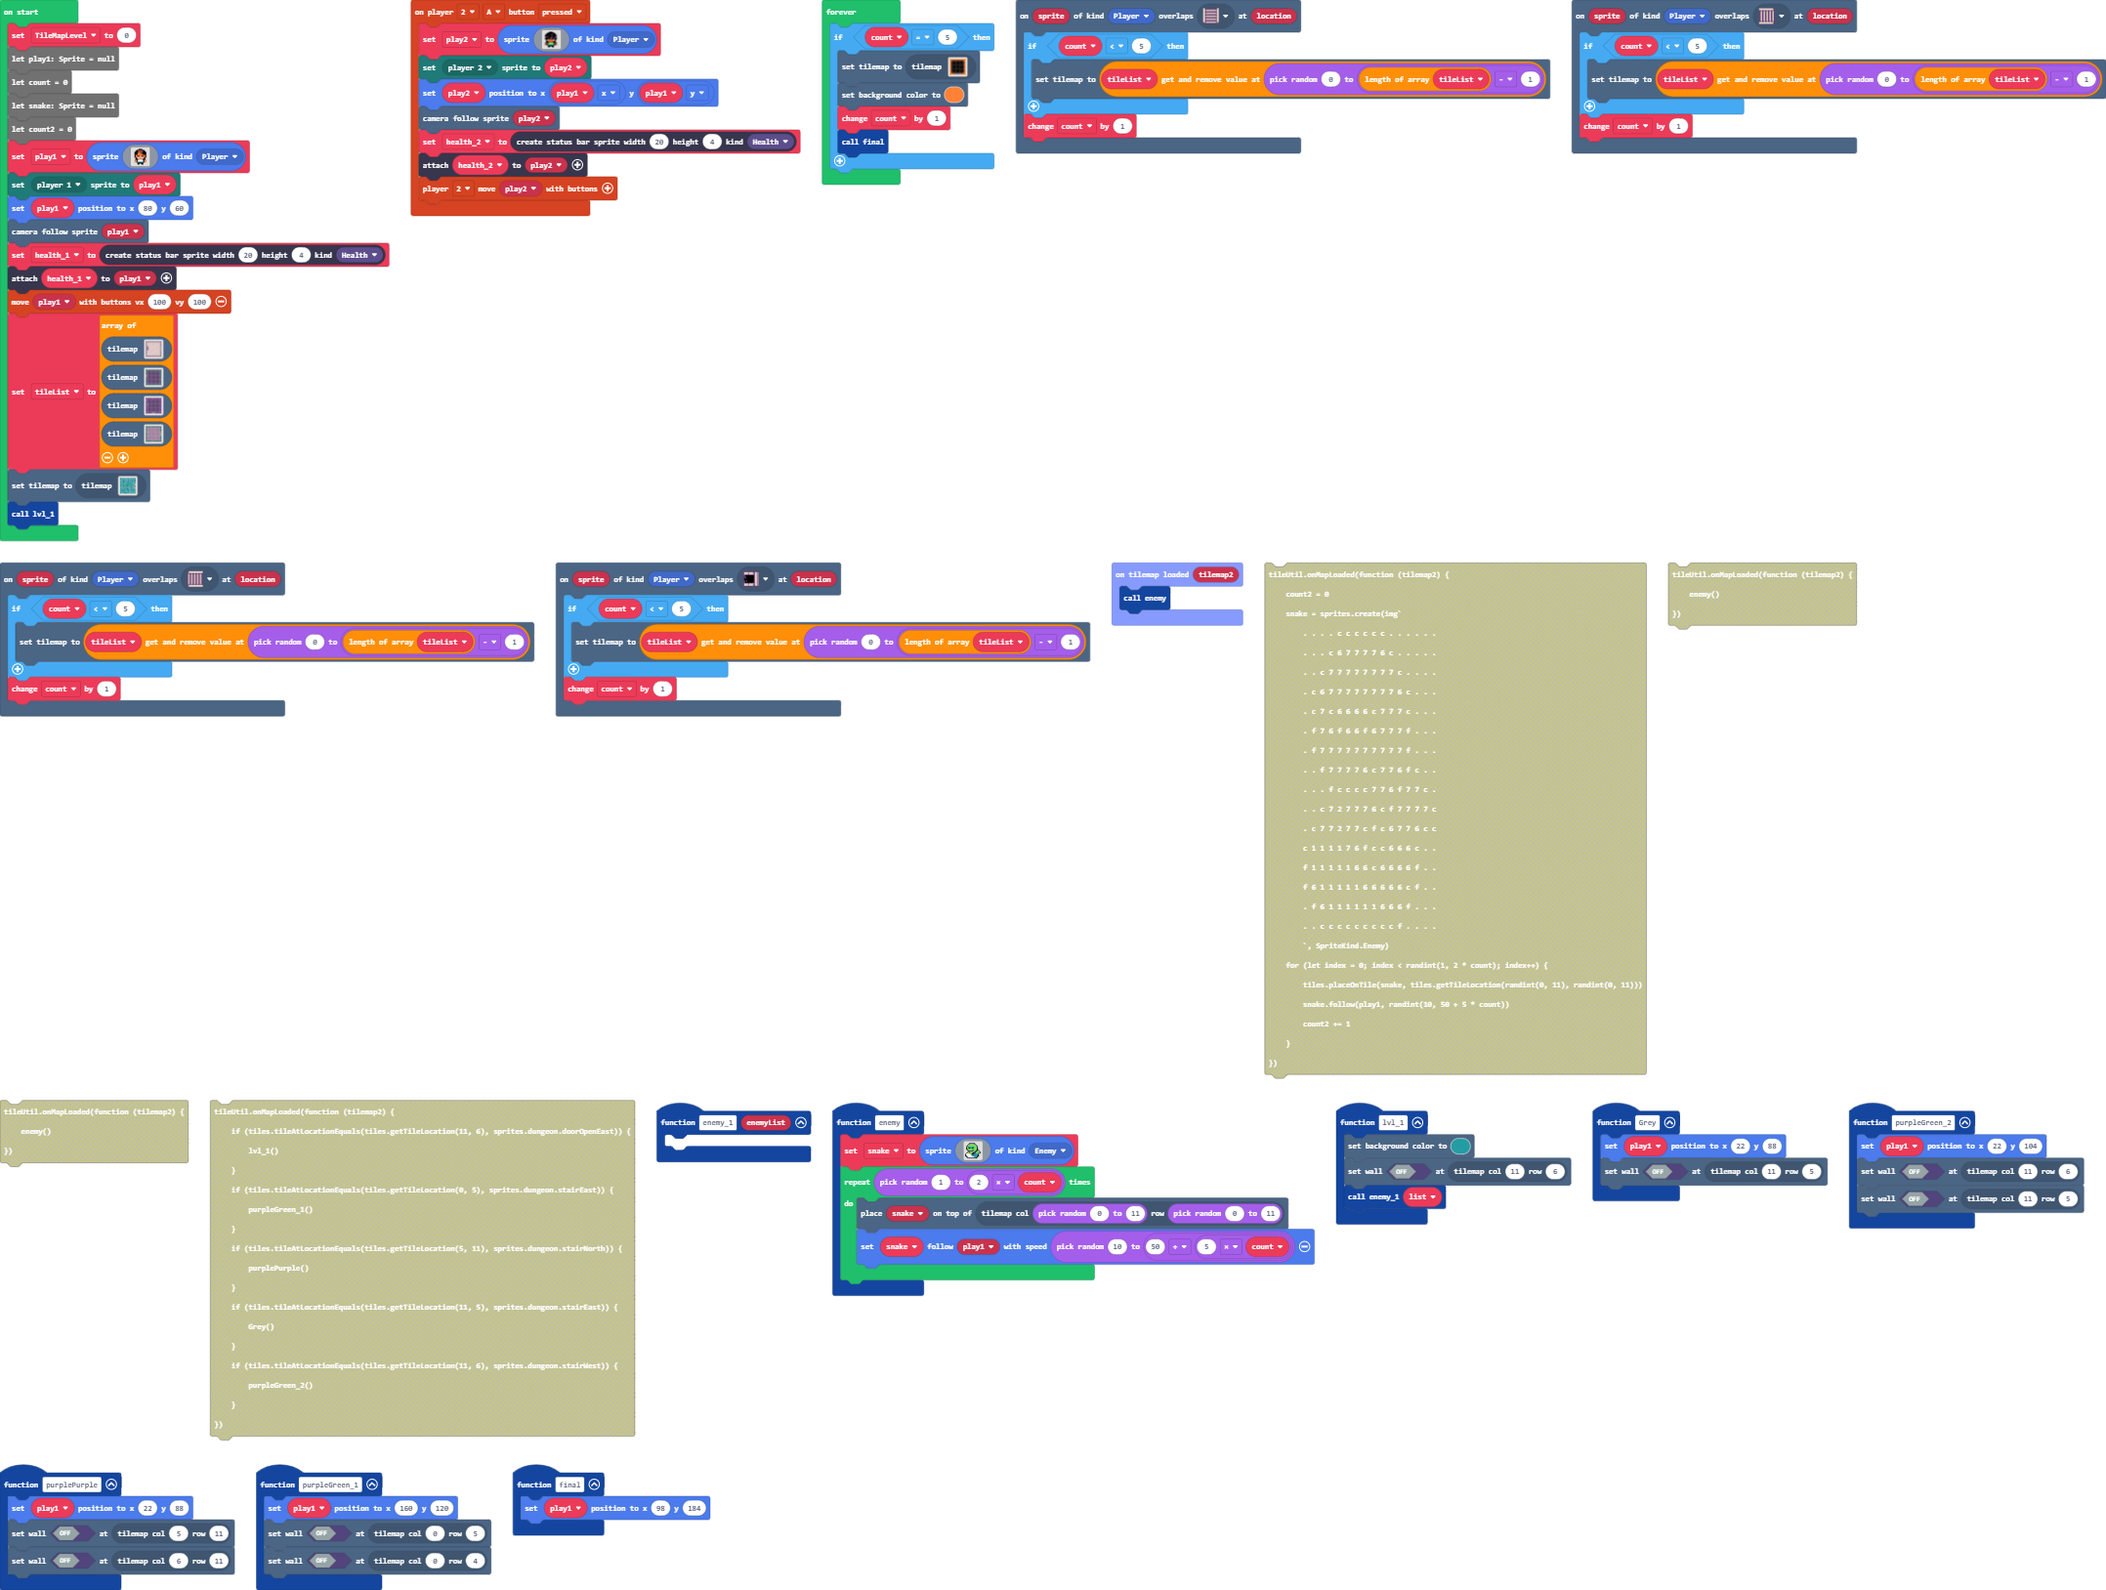
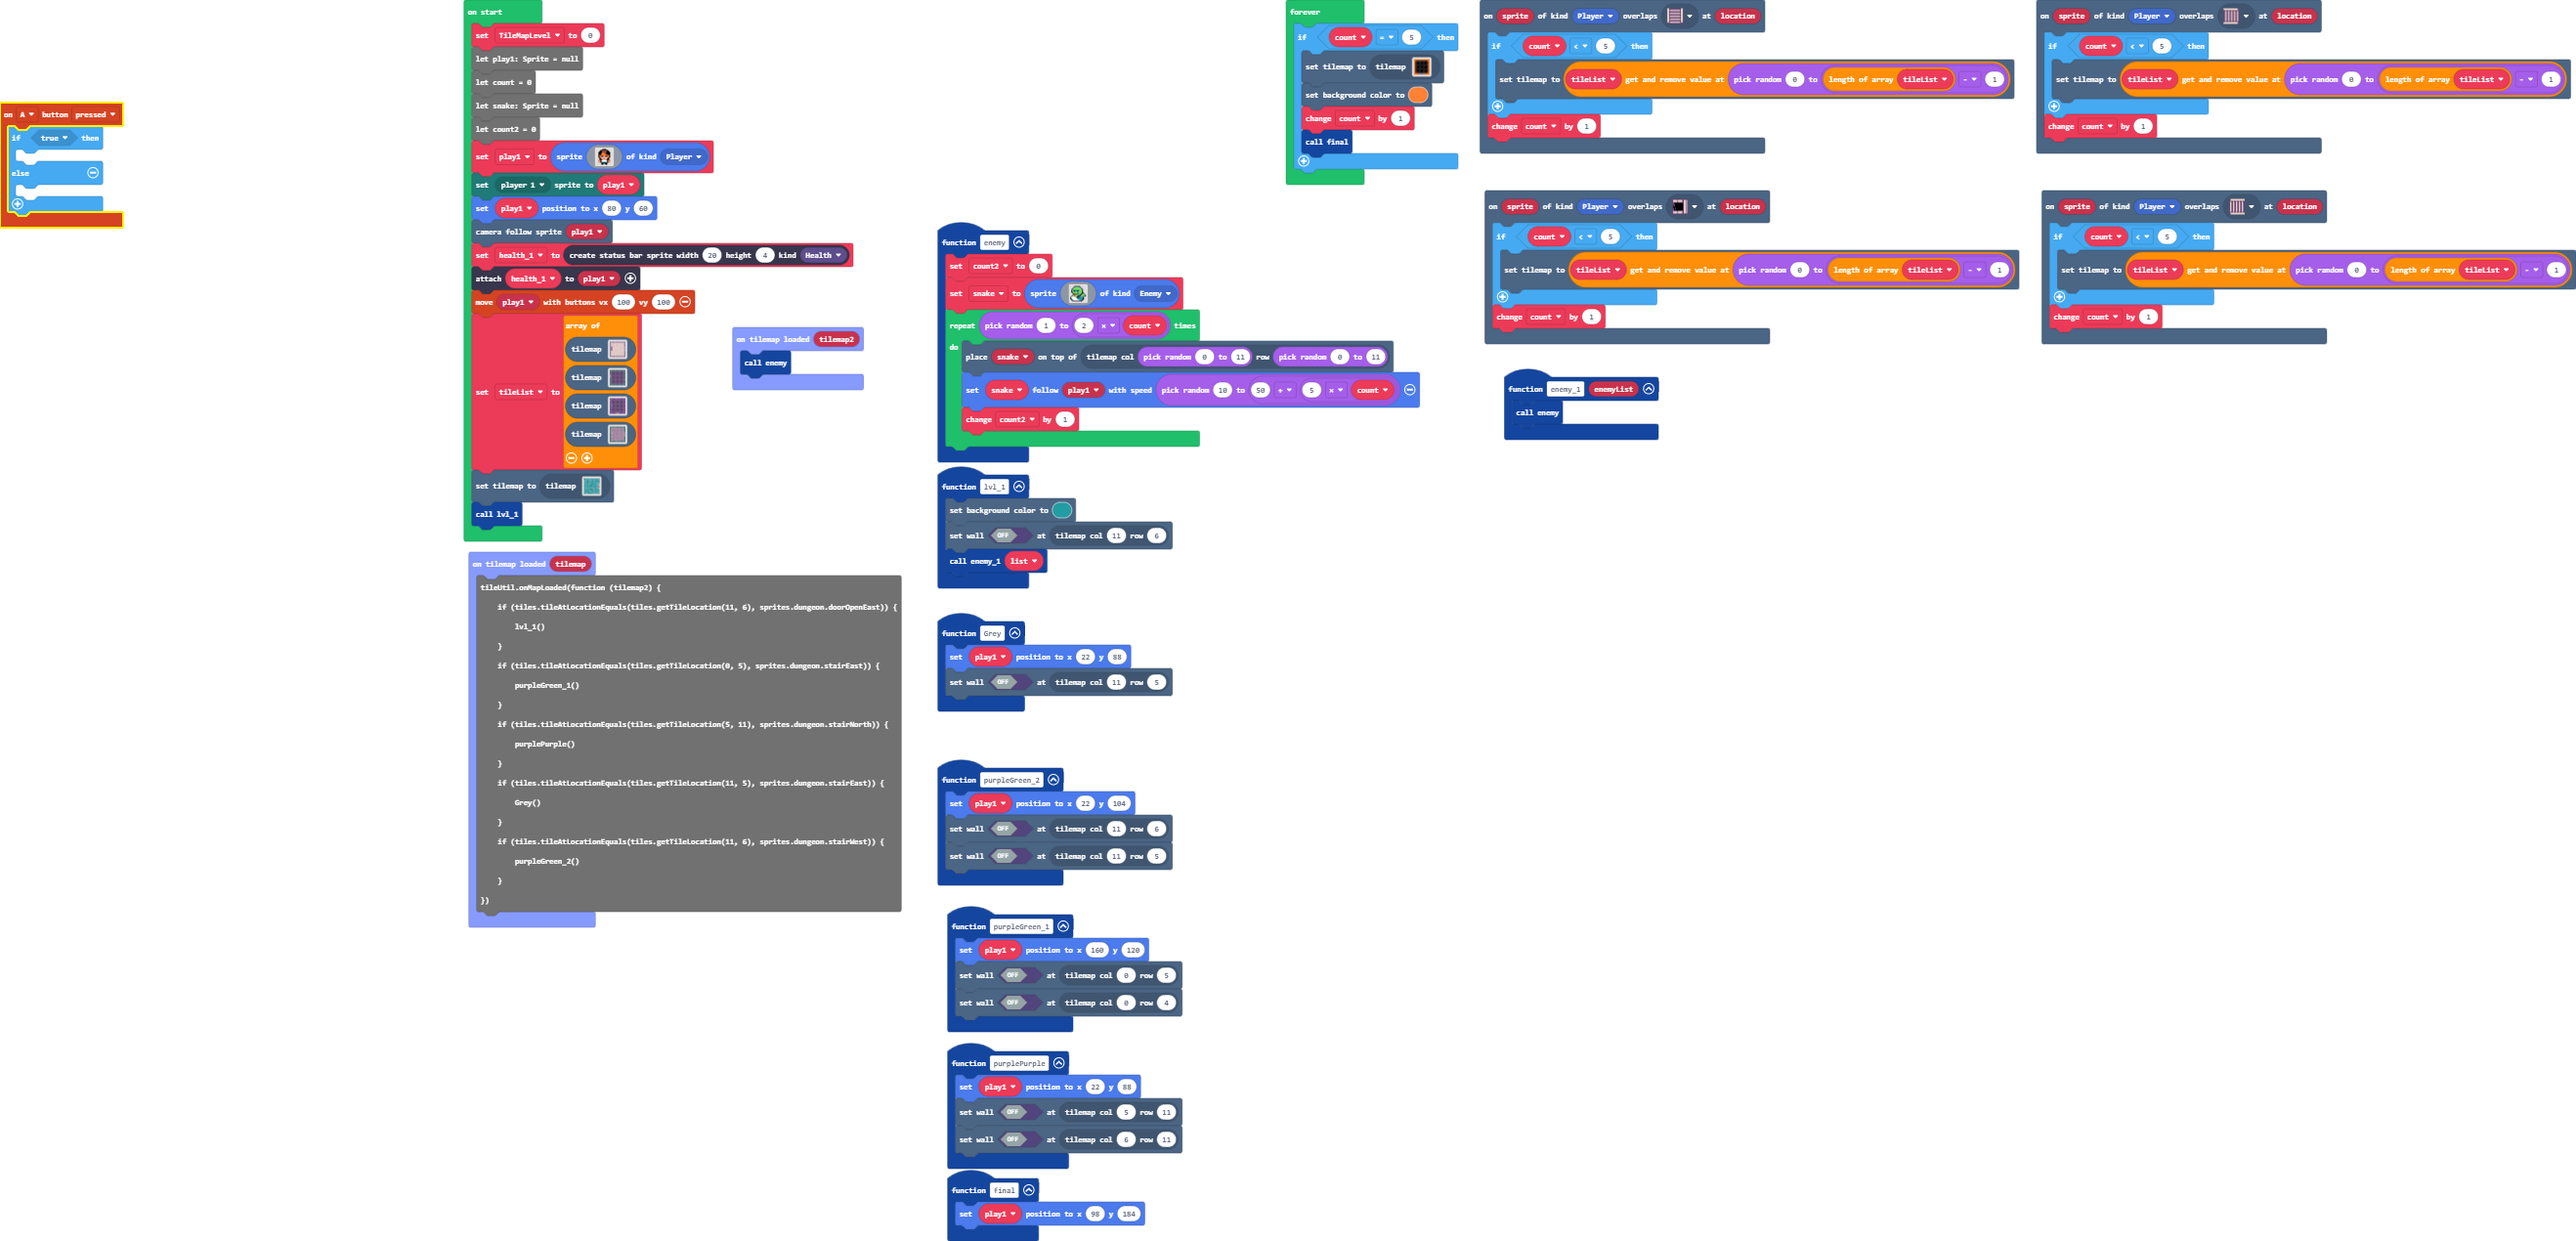
Update main.blocks, main.ts

diff --git a/main.ts b/main.ts
@@ -16,31 +16,12 @@ function purpleGreen_1 () {
     tiles.setWallAt(tiles.getTileLocation(0, 5), false)
     tiles.setWallAt(tiles.getTileLocation(0, 4), false)
 }
-controller.player2.onButtonEvent(ControllerButton.A, ControllerButtonEvent.Pressed, function () {
-    play2 = sprites.create(img`
-        . . . . f f f f . . . . . 
-        . . f f f f f f f f . . . 
-        . f f f f f f c f f f . . 
-        f f f f f f c c f f f c . 
-        f f f c f f f f f f f c . 
-        c c c f f f e e f f c c . 
-        f f f f f e e f f c c f . 
-        f f f b f e e f b f f f . 
-        . f 4 1 f 4 4 f 1 4 f . . 
-        . f e 4 4 4 4 4 4 e f . . 
-        . f f f e e e e f f f . . 
-        f e f b 7 7 7 7 b f e f . 
-        e 4 f 7 7 7 7 7 7 f 4 e . 
-        e e f 6 6 6 6 6 6 f e e . 
-        . . . f f f f f f . . . . 
-        . . . f f . . f f . . . . 
-        `, SpriteKind.Player)
-    mp.setPlayerSprite(mp.playerSelector(mp.PlayerNumber.Two), play2)
-    play2.setPosition(play1.x, play1.y)
-    scene.cameraFollowSprite(play2)
-    health_2 = statusbars.create(20, 4, StatusBarKind.Health)
-    health_2.attachToSprite(play2)
-    controller.player2.moveSprite(play2)
+controller.A.onEvent(ControllerButtonEvent.Pressed, function () {
+    if (true) {
+    	
+    } else {
+    	
+    }
 })
 scene.onOverlapTile(SpriteKind.Player, sprites.dungeon.doorOpenEast, function (sprite, location) {
     if (count < 5) {
@@ -69,7 +50,7 @@ function lvl_1 () {
     enemy_1(list)
 }
 function enemy_1 (enemyList: any[]) {
-	
+    enemy()
 }
 scene.onOverlapTile(SpriteKind.Player, sprites.dungeon.stairEast, function (sprite, location) {
     if (count < 5) {
@@ -78,6 +59,7 @@ scene.onOverlapTile(SpriteKind.Player, sprites.dungeon.stairEast, function (spri
     count += 1
 })
 function enemy () {
+    count2 = 0
     snake = sprites.create(img`
         . . . . c c c c c c . . . . . . 
         . . . c 6 7 7 7 7 6 c . . . . . 
@@ -99,8 +81,28 @@ function enemy () {
     for (let index = 0; index < randint(1, 2 * count); index++) {
         tiles.placeOnTile(snake, tiles.getTileLocation(randint(0, 11), randint(0, 11)))
         snake.follow(play1, randint(10, 50 + 5 * count))
+        count2 += 1
     }
 }
+tileUtil.onMapLoaded(function (tilemap2) {
+    tileUtil.onMapLoaded(function (tilemap2) {
+    if (tiles.tileAtLocationEquals(tiles.getTileLocation(11, 6), sprites.dungeon.doorOpenEast)) {
+        lvl_1()
+    }
+    if (tiles.tileAtLocationEquals(tiles.getTileLocation(0, 5), sprites.dungeon.stairEast)) {
+        purpleGreen_1()
+    }
+    if (tiles.tileAtLocationEquals(tiles.getTileLocation(5, 11), sprites.dungeon.stairNorth)) {
+        purplePurple()
+    }
+    if (tiles.tileAtLocationEquals(tiles.getTileLocation(11, 5), sprites.dungeon.stairEast)) {
+        Grey()
+    }
+    if (tiles.tileAtLocationEquals(tiles.getTileLocation(11, 6), sprites.dungeon.stairWest)) {
+        purpleGreen_2()
+    }
+})
+})
 function purplePurple () {
     play1.setPosition(22, 88)
     tiles.setWallAt(tiles.getTileLocation(5, 11), false)
@@ -109,8 +111,6 @@ function purplePurple () {
 tileUtil.onMapLoaded(function (tilemap2) {
     enemy()
 })
-let health_2: StatusBarSprite = null
-let play2: Sprite = null
 let tileList: tiles.TileMapData[] = []
 let TileMapLevel = 0
 let play1: Sprite = null
